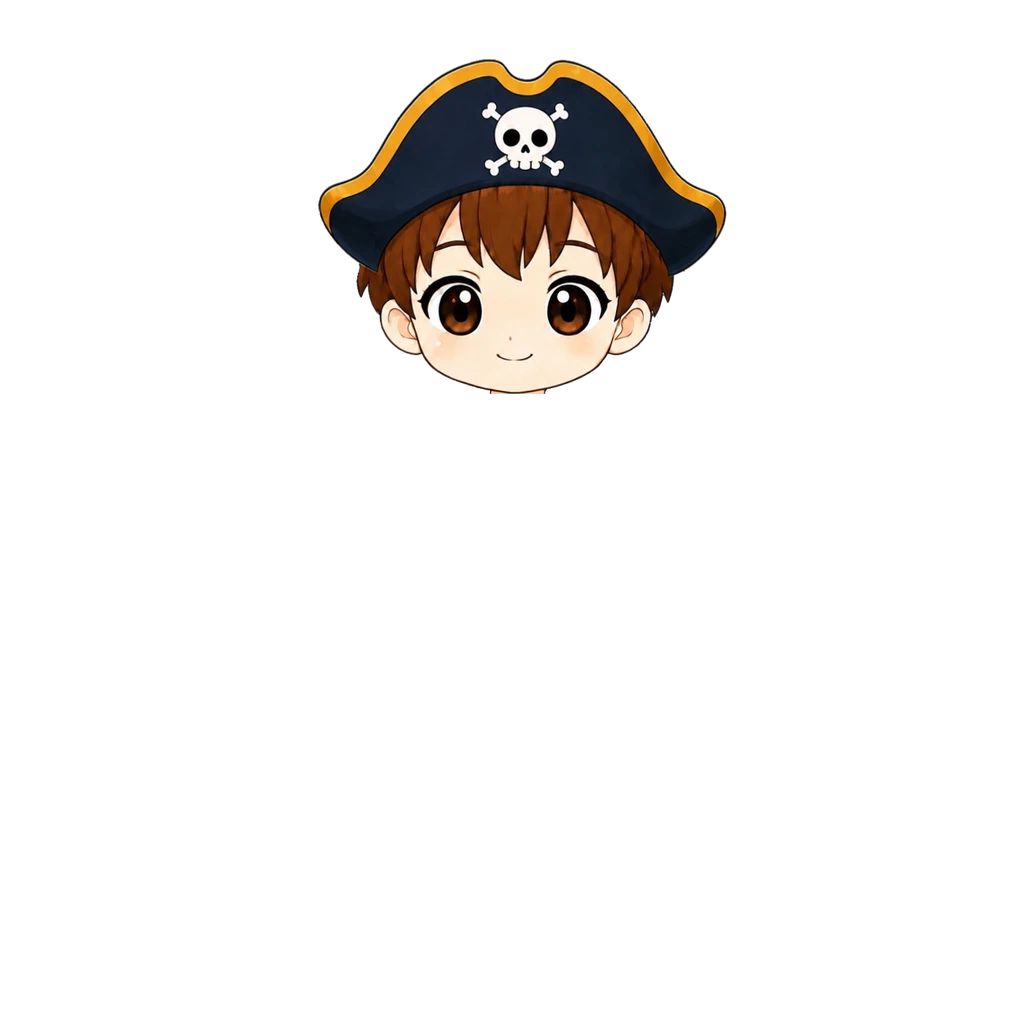
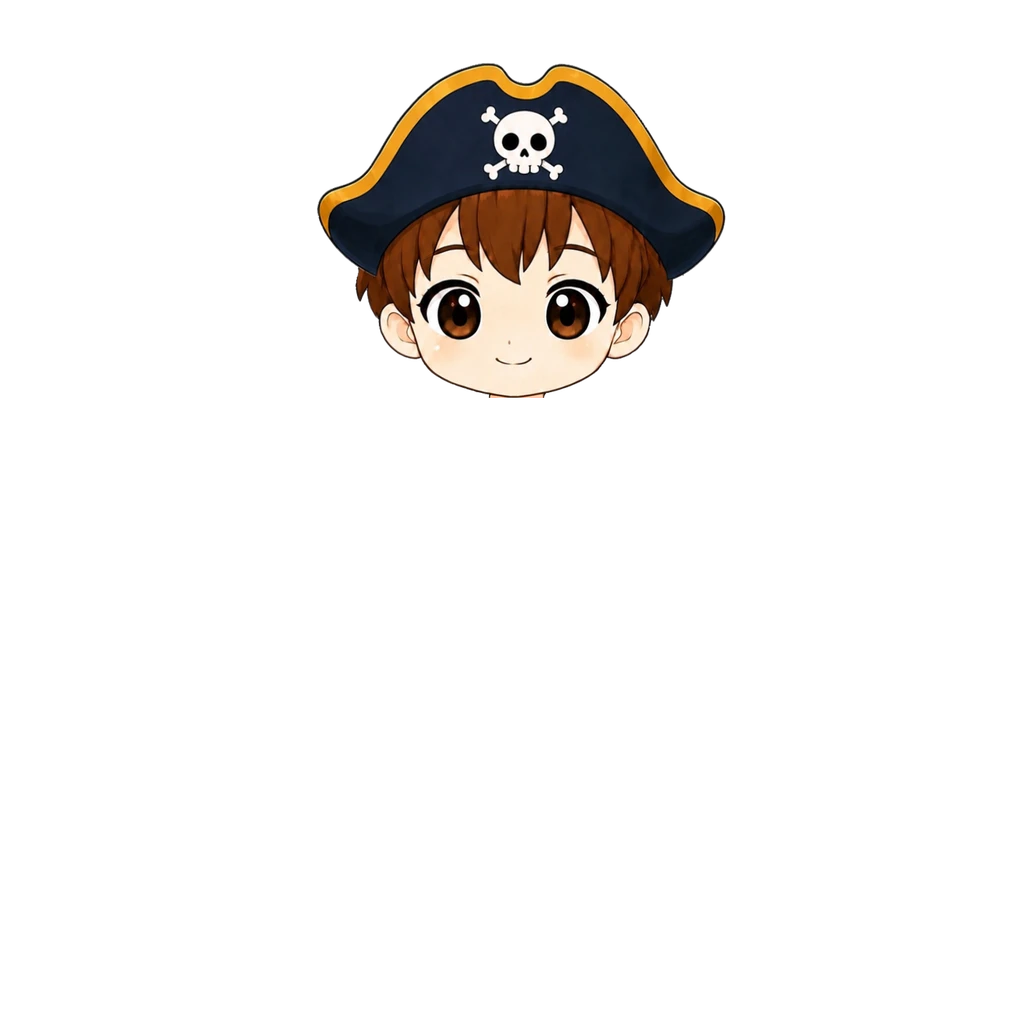
해적 모자(남아) 아래로 4·왼쪽 1 (#869)
원점 (318,58)→(317,62). img ?v=2.

Claude-Session: https://claude.ai/code/session_018maNuYqDfFyRSe9uKpZhPR

diff --git a/src/data/avatarEquipment.js b/src/data/avatarEquipment.js
@@ -235,8 +235,9 @@ export const AVATAR_CATALOG = [
   { id: "hat_visor_boy",  slot: "hat",   label: "썸머 썬캡", emoji: "🧢", price:DECOR_PRICE.rare, rarity: "rare", theme: "common", forGender: "boy", hidesHead: true, img: "assets/avatar/hat/summer-visor-boy.webp?v=3", thumb: "assets/avatar/thumb/hat_visor_boy.webp" },
   /* 해적 모자 남아 [2026-10-04] — 남색 삼각 해적모(금 테두리·해골) + 얼굴 한 장(사용자 원화 574×475). 꼬마 해적단 옷과 짝.
      여아 꼬마해적 모자(hat_pirate)는 그대로 두고 남아용 id 를 따로 둔다. 번개 캡모자와 같은 방식(hidesHead) —
-     얼굴(눈~입) 템플릿 매칭(일치 0.972)으로 배율 0.712, 원점 (318,58). y404 아래 자름. 탑재 상자 (318,58,727,396). */
-  { id: "hat_pirate_boy", slot: "hat",   label: "해적 모자", emoji: "🏴☠", price:DECOR_PRICE.epic, rarity: "epic", theme: "pirate", forGender: "boy", hidesHead: true, img: "assets/avatar/hat/pirate-hat-boy.webp", thumb: "assets/avatar/thumb/hat_pirate_boy.webp" },
+     얼굴(눈~입) 템플릿 매칭(일치 0.972)으로 배율 0.712, 원점 (318,58). y404 아래 자름. 탑재 상자 (318,58,727,396).
+     [2026-10-04] 사용자 조정 — 아래로 4·왼쪽으로 1(원점 (317,62)). 탑재 상자 (317,62,726,400). img ?v=2. */
+  { id: "hat_pirate_boy", slot: "hat",   label: "해적 모자", emoji: "🏴☠", price:DECOR_PRICE.epic, rarity: "epic", theme: "pirate", forGender: "boy", hidesHead: true, img: "assets/avatar/hat/pirate-hat-boy.webp?v=2", thumb: "assets/avatar/thumb/hat_pirate_boy.webp" },
   /* 사파리 옷 — 원화가 블라우스+반바지 한 장이라 상의 슬롯 하나로 넣는다(사용자 확정).
      상의(35)가 하의(30) 위라 하의를 같이 껴도 이 그림이 덮는다. */
   /* [2026-08-20] 남아 원화가 들어와 남녀 공용이 됐다 — 그림이 성별로 갈리는 첫 아이템.

diff --git a/art-src/README.md b/art-src/README.md
@@ -604,4 +604,4 @@ bbox로 여백만 잘라내고 배포본은 높이 480px로 축소했다(전부 
 | thumb-src-shoes_fins.webp | **상점 목록 그림 남아 바다 오리발 (shoes_fins, 사용자 원화 2026-10-04)** — 상점 카드에만 보이는 한 짝 아이콘. 374×325 투명 배경, 세로 160px 로 줄여 탑재(thumb ?v=2) | avatar/thumb/shoes_fins.webp |
 | lightning-cap-boy-src.webp | **번개 캡모자 원화 남아 — 모자+얼굴 한 장 (사용자 원화 2026-10-04)** — 589×500 투명 배경, 청록 캡(뒤로 쓴 챙·형광 번개). 사파리 모자처럼 hidesHead 로 기본 머리를 대신한다. 얼굴 템플릿 매칭(일치 0.956)으로 배율 0.644·원점 (336,76), y404 아래 자름. 탑재 상자 (336,76,715,398). **[2026-10-04 조정]** 아래로 1(원점 (336,77)) · img ?v=2. 다시 아래로 1(원점 (336,78)) · img ?v=3. 머리 3% 크게(배율 0.6633, 턱·가운데 고정, 원점 (331,68)) · img ?v=4. 다시 2% 크게(0.6766, 원점 (327,61)) · img ?v=5. 왼쪽 2·아래로 1(원점 (325,62)) · img ?v=6. 상점 그림은 원화를 세로 160px 로 | avatar/hat/lightning-cap-boy.webp · thumb/hat_cap_boy.webp |
 | summer-visor-boy-src.webp | **썸머 썬캡 원화 남아 — 모자+얼굴 한 장 (사용자 원화 2026-10-04)** — 520×456 투명 배경, 주황 썬캡(조개 장식). hidesHead 로 기본 머리를 대신한다. 얼굴 템플릿 매칭(일치 0.953)으로 배율 0.676·원점 (339,83), y404 아래 자름. 탑재 상자 (339,83,691,391). **[2026-10-04 조정]** 2% 크게(0.6895)·아래로 5, 원점 (335,82) · img ?v=2. 다시 아래로 3(원점 (335,85)) · img ?v=3. 상점 그림은 원화를 세로 160px 로 | avatar/hat/summer-visor-boy.webp · thumb/hat_visor_boy.webp |
-| pirate-hat-boy-src.webp | **해적 모자 원화 남아 — 모자+얼굴 한 장 (사용자 원화 2026-10-04)** — 574×475 투명 배경, 남색 삼각 해적모(금 테두리·해골). hidesHead 로 기본 머리를 대신한다. 얼굴 템플릿 매칭(일치 0.972)으로 배율 0.712·원점 (318,58), y404 아래 자름. 탑재 상자 (318,58,727,396). 상점 그림은 원화를 세로 160px 로 | avatar/hat/pirate-hat-boy.webp · thumb/hat_pirate_boy.webp |
+| pirate-hat-boy-src.webp | **해적 모자 원화 남아 — 모자+얼굴 한 장 (사용자 원화 2026-10-04)** — 574×475 투명 배경, 남색 삼각 해적모(금 테두리·해골). hidesHead 로 기본 머리를 대신한다. 얼굴 템플릿 매칭(일치 0.972)으로 배율 0.712·원점 (318,58), y404 아래 자름. 탑재 상자 (318,58,727,396). **[2026-10-04 조정]** 아래로 4·왼쪽 1(원점 (317,62)) · img ?v=2. 상점 그림은 원화를 세로 160px 로 | avatar/hat/pirate-hat-boy.webp · thumb/hat_pirate_boy.webp |
